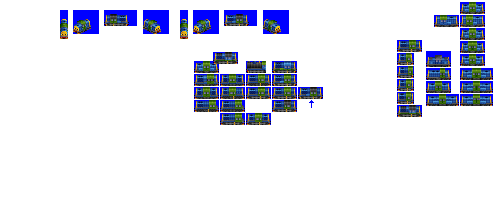
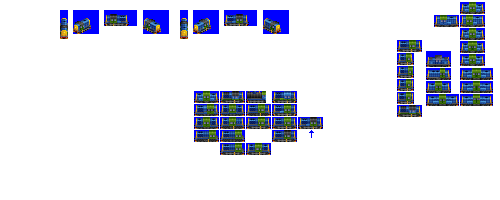
Change: sprites complete for Hercules

diff --git a/src/vehicles/little_bear.py b/src/vehicles/little_bear.py
@@ -11,7 +11,7 @@ consist = EngineConsist(id='little_bear',
                         joker=True,
                         gen=4,
                         intro_date_offset=-6,
-                        sprites_complete=False)
+                        sprites_complete=True)
 
 consist.add_unit(type=DieselEngineUnit,
                  weight=68,

diff --git a/src/vehicles/hercules.py b/src/vehicles/hercules.py
@@ -11,7 +11,7 @@ consist = EngineConsist(id='hercules',
                         joker=True,
                         gen=5,
                         intro_date_offset=-5,
-                        sprites_complete=False)
+                        sprites_complete=True)
 
 consist.add_unit(type=DieselEngineUnit,
                  weight=71,

diff --git a/src/vehicles/goliath.py b/src/vehicles/goliath.py
@@ -9,7 +9,7 @@ consist = EngineConsist(id='goliath',
                         joker=True,
                         gen=6,
                         intro_date_offset=+5,
-                        sprites_complete=False)
+                        sprites_complete=True)
 
 consist.add_unit(type=DieselEngineUnit,
                  weight=74,
